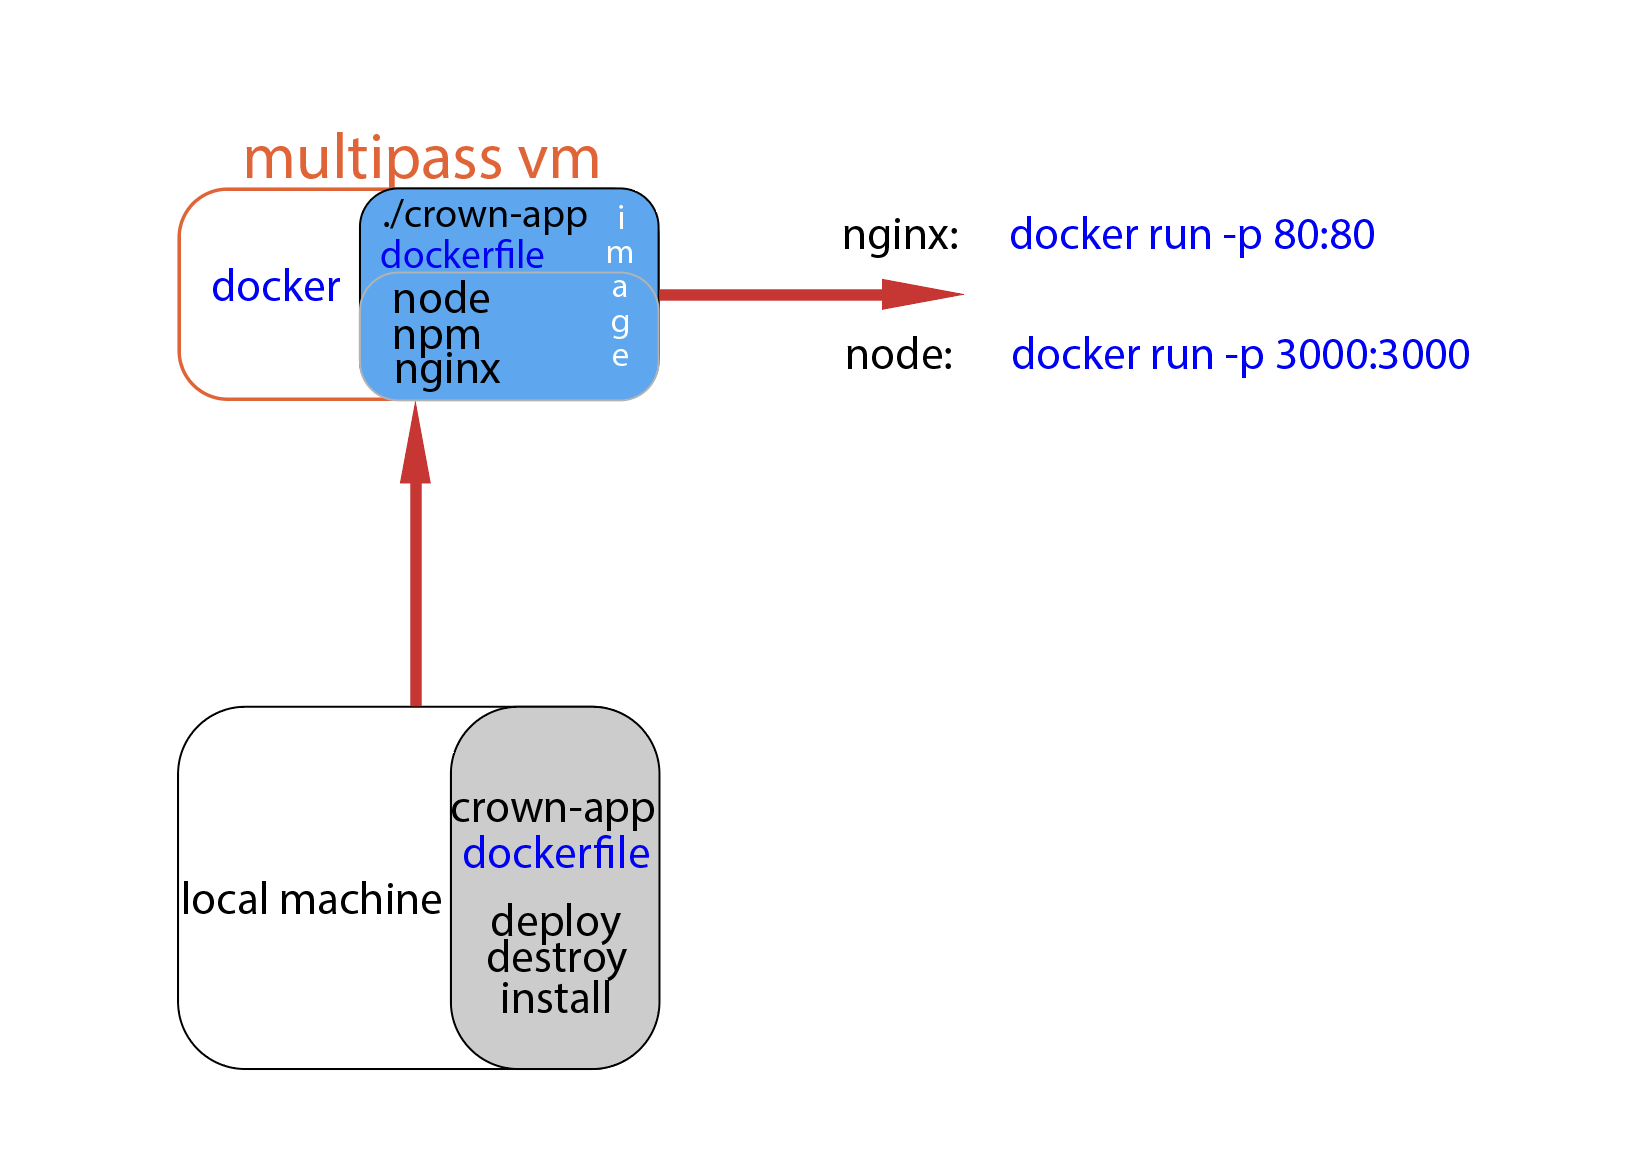
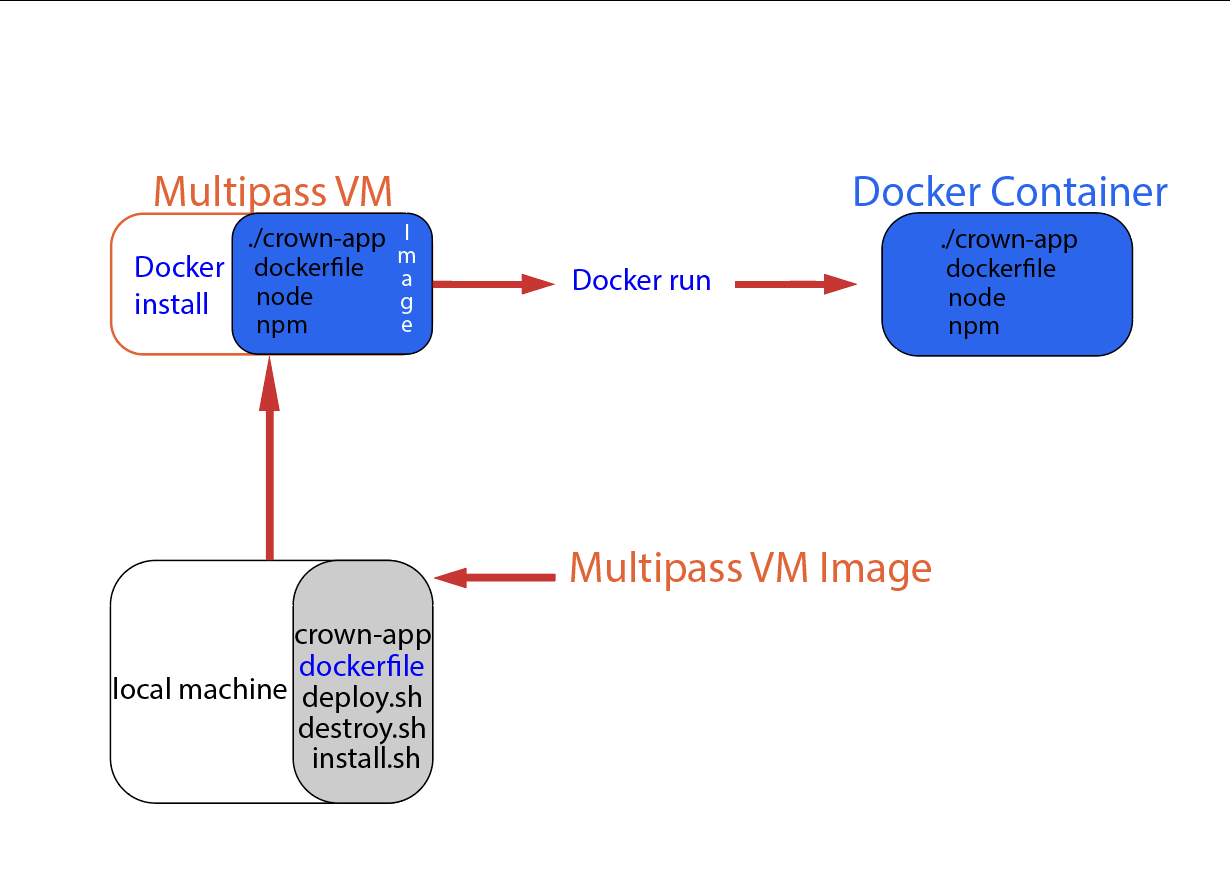
Add command npm start to Dockerfile, change DockerImg.png. Container running on port 3000.

Changed region(s): [[0.0927, 0.123, 0.9577, 0.9226]]

diff --git a/README.md b/README.md
@@ -35,6 +35,10 @@ Obtain the publishable and secret keys from the developer test mode on the Strip
 
 * Open the cloud-config.yaml file and replace the hard-coded name with your own.
 
+* Change the path on line 75 in vm_deploy.sh to /home/yourname
+
+* If preferred, change line 82 in vm_deploy.sh to yourname-docker
+
 * In the terminal, run the command `bash vm_deploy.sh`
 
 * When prompted, enter your computer password
